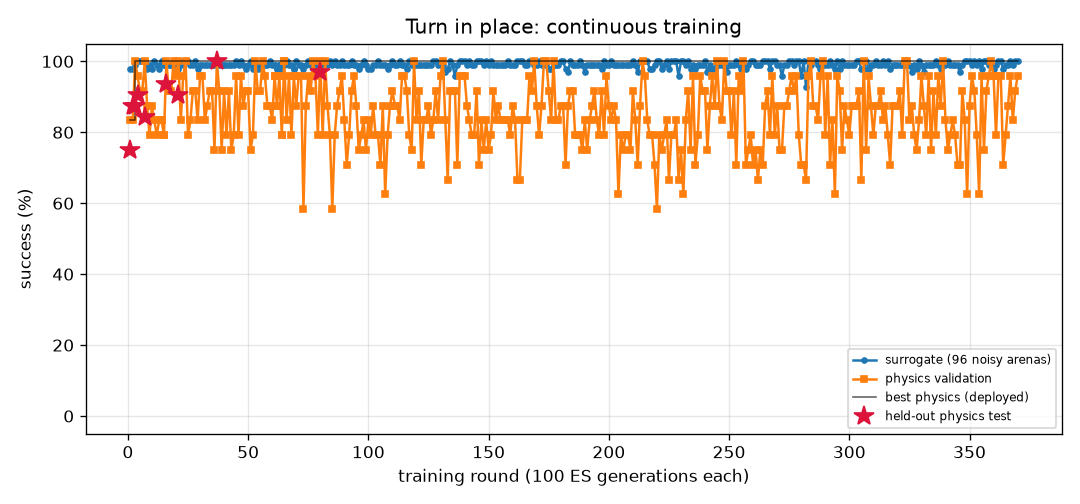
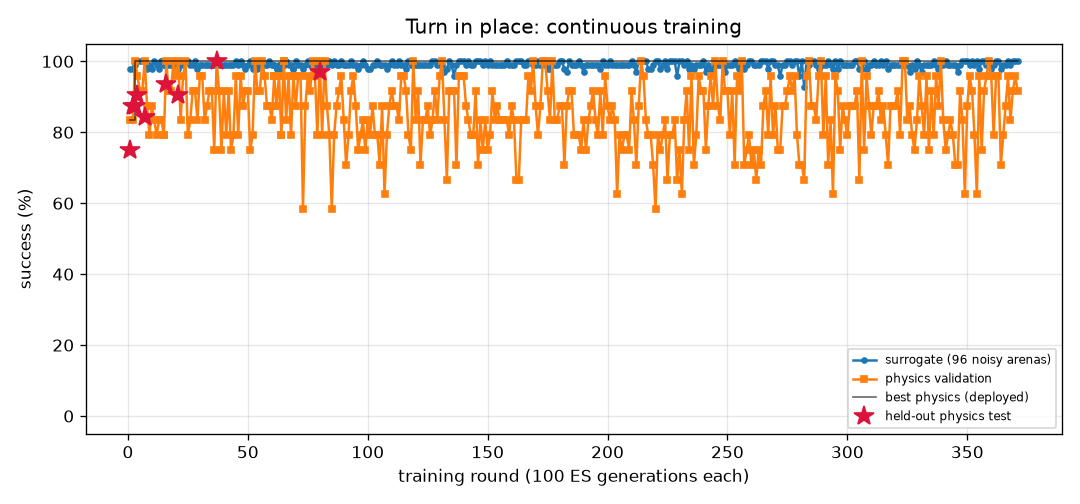
FlyLab: continuous training progress
- walk_forward: optimal, physics val 100% of 24, round 92
- turn: optimal, physics val 100% of 24, round 371
- goto: optimal, physics val 100% of 24, round 86
- odor_seek: optimal, physics val 100% of 24, round 94
- odor_avoid: optimal, physics val 100% of 24, round 422
- light_seek: optimal, physics val 100% of 24, round 275
- light_avoid: optimal, physics val 100% of 24, round 198

diff --git a/projects/09_flylab/training/turn/REPORT.md b/projects/09_flylab/training/turn/REPORT.md
@@ -1,14 +1,14 @@
 # Turn in place (`turn`) — training report
 
-*Auto-generated by `train_brains.py`, last updated 2026-10-13T15:02:52.*
+*Auto-generated by `train_brains.py`, last updated 2026-10-13T15:09:05.*
 
 ![curve](curve.png)
 
 | | |
 |---|---|
-| rounds | 370 |
-| ES generations | 37000 |
-| physics runs | 9126 |
+| rounds | 371 |
+| ES generations | 37100 |
+| physics runs | 9150 |
 | status | **optimal** |
 | best brain | round 80: physics validation **100%** on 24 arenas, surrogate 100% |
 | held-out physics test | **97%** on 32 unseen arenas (95% CI 84%-99%) (errors: [1.6, 3.3, 6.3, 3.7, 1.1, 0.4, 2.4, 2.9, 0.1, 2.6, 0.5, 2.7, 1.5, 3.1, 4.5, 0.2, 0.5, 1.1, 2.0, 4.4, 2.8, 3.2, 0.3, 2.2, 0.5, 3.0, 0.3, 5.4, 0.4, 1.0, 4.7, 10.7]) |
@@ -17,7 +17,6 @@ Physics error per arena: deg from target heading (< 20 = success).
 
 | round | level | gens | sigma | surrogate | physics val | val errors | test | note |
 |---:|---:|---:|---:|---:|---:|---|---:|---|
-| 331 | 3 | 33100 | 0.025 | 97% | 88% | [10.4, 11.4, 3.3, 2.0, 4.1, 3.5, 0.5, 4.8, 1.1, 2.0, 0.9, 3.2, 3.4, 2.8, 0.5, 7.3, 4.1, 1.1, 3.9, 4.3, 7.8, 0.7, 2.6, 1.7] |  |  |
 | 332 | 3 | 33200 | 0.026 | 99% | 79% | [1.6, 6.7, 1.9, 1.9, 1.9, 2.7, 5.9, 5.2, 4.7, 0.3, 3.9, 0.8, 1.1, 0.2, 4.2, 1.7, 0.1, 0.8, 3.1, 3.5, 5.6, 0.8, 6.5, 3.2] |  | restart from best |
 | 333 | 3 | 33300 | 0.024 | 99% | 96% | [8.4, 8.6, 5.5, 6.0, 3.9, 1.1, 1.0, 2.5, 0.4, 2.6, 0.4, 3.4, 5.5, 6.5, 0.9, 2.0, 3.7, 4.4, 4.7, 2.4, 5.8, 1.7, 1.0, 6.9] |  |  |
 | 334 | 3 | 33400 | 0.025 | 99% | 75% | [8.1, 5.4, 8.5, 1.4, 1.2, 0.2, 7.9, 5.3, 9.6, 1.4, 5.6, 2.9, 3.0, 0.9, 4.7, 2.6, 2.6, 4.8, 2.8, 3.7, 2.1, 0.8, 9.3, 6.6] |  |  |
@@ -57,3 +56,4 @@ Physics error per arena: deg from target heading (< 20 = success).
 | 368 | 3 | 36800 | 0.024 | 99% | 83% | [6.1, 3.8, 7.5, 2.0, 0.9, 2.9, 5.6, 0.9, 4.0, 0.2, 4.1, 0.3, 1.9, 3.4, 3.1, 0.1, 1.2, 0.9, 0.9, 0.0, 3.5, 0.4, 4.5, 4.7] |  | restart from best |
 | 369 | 3 | 36900 | 0.024 | 100% | 92% | [5.0, 3.2, 2.0, 2.9, 0.4, 2.4, 5.8, 0.4, 5.6, 0.2, 3.8, 0.9, 1.1, 2.0, 3.6, 0.4, 0.7, 2.7, 0.5, 0.6, 5.2, 2.5, 5.1, 0.4] |  |  |
 | 370 | 3 | 37000 | 0.024 | 100% | 96% | [6.6, 3.5, 13.4, 0.9, 1.9, 0.1, 4.8, 8.0, 6.6, 1.1, 3.6, 2.5, 1.4, 1.9, 5.0, 2.5, 1.9, 1.4, 2.4, 1.4, 3.3, 2.7, 4.5, 2.1] |  |  |
+| 371 | 3 | 37100 | 0.024 | 100% | 92% | [2.4, 4.6, 3.4, 1.7, 1.9, 2.9, 4.3, 4.9, 3.6, 0.5, 4.1, 1.5, 1.6, 2.4, 3.2, 3.5, 1.6, 2.6, 5.5, 1.4, 3.9, 1.1, 8.1, 4.9] |  |  |

diff --git a/projects/09_flylab/training/TRAINING.md b/projects/09_flylab/training/TRAINING.md
@@ -1,13 +1,13 @@
 # FlyLab brains — continuous training log
 
-*Auto-generated by `train_brains.py`, last updated 2026-10-13T15:08:56.*
+*Auto-generated by `train_brains.py`, last updated 2026-10-13T15:09:05.*
 
 Every skill has its own brain and its own training process: surrogate ES rounds, physics validation in MuJoCo, keep-the-best selection, and a held-out physics test that is never used for selection. See each skill's report for its full round-by-round history. Mastery is progressive: passing a level (100% physics validation, >=95% surrogate) doubles the validation and test arena sets; a brain is **optimal** once it holds up at level 3 (>=95% of 24 validation arenas) AND scores >=90% on the 32 held-out test arenas. Test columns show 95% Wilson confidence intervals.
 
 | skill | rounds | ES generations | physics runs | surrogate | physics val | **physics test** | status |
 |---|---:|---:|---:|---:|---:|---:|---|
 | [Walk forward](walk_forward/REPORT.md) | 92 | 9200 | 2158 | 100% | 100% of 24 | 100% of 32 (CI 89-100%) | **optimal** |
-| [Turn in place](turn/REPORT.md) | 370 | 37000 | 9126 | 100% | 100% of 24 | 97% of 32 (CI 84-99%) | **optimal** |
+| [Turn in place](turn/REPORT.md) | 371 | 37100 | 9150 | 100% | 100% of 24 | 97% of 32 (CI 84-99%) | **optimal** |
 | [Go to a location](goto/REPORT.md) | 86 | 8600 | 1950 | 100% | 100% of 24 | 100% of 32 (CI 89-100%) | **optimal** |
 | [Find food by smell](odor_seek/REPORT.md) | 94 | 9400 | 1590 | 100% | 100% of 24 | 100% of 32 (CI 89-100%) | **optimal** |
 | [Escape a bad smell](odor_avoid/REPORT.md) | 422 | 42200 | 7434 | 97% | 100% of 24 | 97% of 32 (CI 84-99%) | **optimal** |
